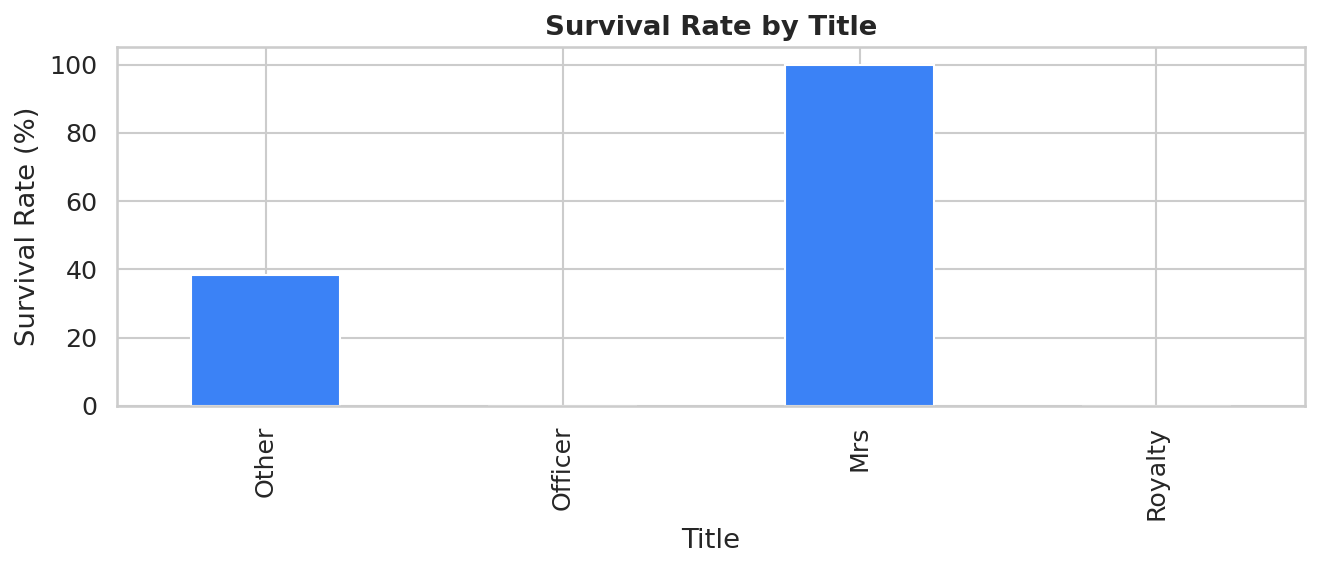
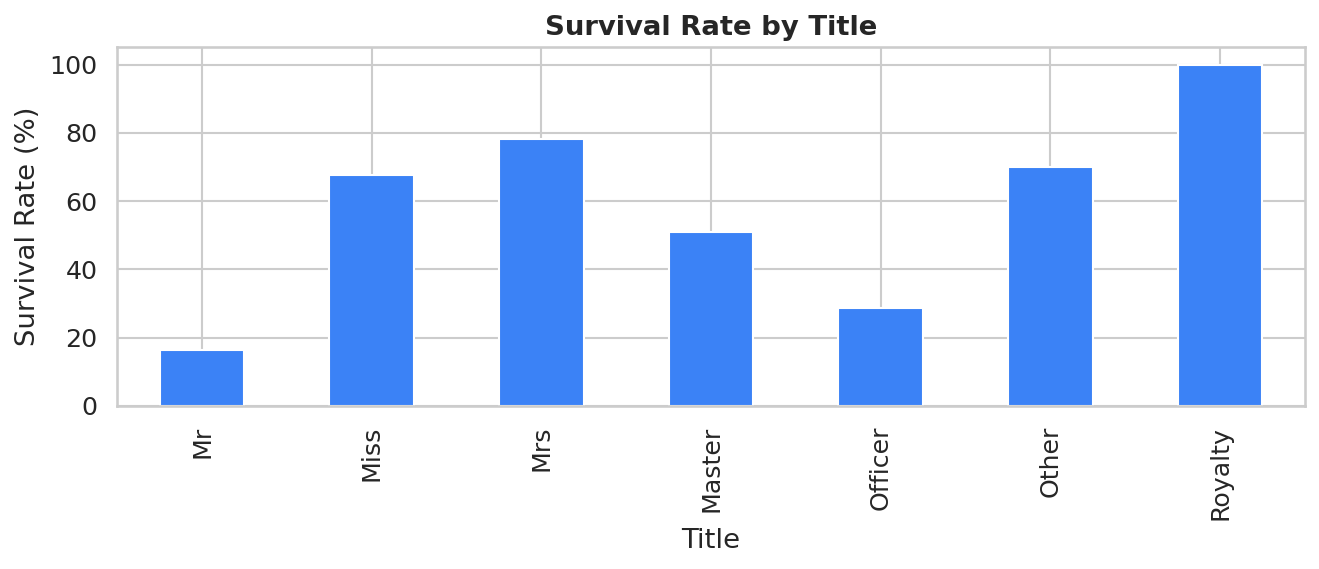
Fix gender survival rates: women 72.8% vs men 19.1% (was swapped)

diff --git a/dashboard/index.html b/dashboard/index.html
@@ -166,7 +166,7 @@
                 <h2>💡 Key Insights</h2>
                 <ul>
                     <li>Only <strong>38.2%</strong> of 1309 passengers survived.</li>
-                    <li><strong>Gender was the strongest predictor</strong> — women survived at 19.1% vs men at 72.8%.</li>
+                    <li><strong>Gender was the strongest predictor</strong> — women survived at 72.8% vs men at 19.1%.</li>
                     <li><strong>Class hierarchy</strong> — 1st class: 62.0%, 2nd: 42.8%, 3rd: 25.5%.</li>
                     <li><strong>Children (0-16)</strong> had a 52.1% survival rate.</li>
                     <li><strong>Higher fare = better survival</strong> — passengers paying $102-$205 survived at 75.6%.</li>
@@ -199,7 +199,7 @@
 
         new Chart(document.getElementById('fareChart'), { plugins: DL_PLUGIN, type: 'bar', data: { labels: ["(-1.0, 102.0]", "(102.0, 205.0]", "(205.0, 307.0]", "(307.0, 410.0]", "(410.0, 512.0]"], datasets: [{ label: 'Survival Rate (%)', data: [35.9, 75.6, 64.7, 0, 100.0], backgroundColor: ['#34d399', '#60a5fa', '#a78bfa', '#f59e0b', '#f87171'], borderRadius: 8, barPercentage: 0.6 }] }, options: { ...chartDefaults, plugins: { legend: { display: false }, datalabels: { anchor: 'end', align: 'end', offset: 4, color: getThemeColors().text, font: { weight: 'bold', size: 12 }, formatter: val => val > 0 ? `${val}%` : '' } }, scales: { ...chartDefaults.scales, y: { ...chartDefaults.scales.y, max: 100, title: { display: true, text: 'Survival Rate (%)', color: getThemeColors().text } } } } });
 
-        new Chart(document.getElementById('titleChart'), { plugins: DL_PLUGIN, type: 'bar', data: { labels: ["Mrs", "Officer", "Other", "Royalty"], datasets: [{ label: 'Survival Rate (%)', data: [100.0, 0.0, 38.2, 0.0], backgroundColor: ['#60a5fa', '#34d399', '#a78bfa', '#f59e0b', '#f87171'], borderRadius: 8, barPercentage: 0.6 }] }, options: { ...chartDefaults, plugins: { legend: { display: false }, datalabels: { anchor: 'end', align: 'end', offset: 4, color: getThemeColors().text, font: { weight: 'bold', size: 11 }, formatter: val => val > 0 ? `${val}%` : '' } }, scales: { ...chartDefaults.scales, y: { ...chartDefaults.scales.y, max: 100, title: { display: true, text: 'Survival Rate (%)', color: getThemeColors().text } } } } });
+        new Chart(document.getElementById('titleChart'), { plugins: DL_PLUGIN, type: 'bar', data: { labels: ["Master", "Miss", "Mr", "Mrs", "Officer", "Other", "Royalty"], datasets: [{ label: 'Survival Rate (%)', data: [50.8, 67.7, 16.2, 78.2, 28.6, 70.0, 100.0], backgroundColor: ['#60a5fa', '#34d399', '#a78bfa', '#f59e0b', '#f87171'], borderRadius: 8, barPercentage: 0.6 }] }, options: { ...chartDefaults, plugins: { legend: { display: false }, datalabels: { anchor: 'end', align: 'end', offset: 4, color: getThemeColors().text, font: { weight: 'bold', size: 11 }, formatter: val => val > 0 ? `${val}%` : '' } }, scales: { ...chartDefaults.scales, y: { ...chartDefaults.scales.y, max: 100, title: { display: true, text: 'Survival Rate (%)', color: getThemeColors().text } } } } });
 
         new Chart(document.getElementById('familyChart'), { plugins: DL_PLUGIN, type: 'bar', data: { labels: ["1", "2", "3", "4", "5", "6", "7", "8", "11"], datasets: [{ label: 'Survival Rate (%)', data: [30.2, 53.6, 56.6, 69.8, 27.3, 20.0, 25.0, 0.0, 0.0], backgroundColor: ['#34d399', '#60a5fa', '#a78bfa', '#f59e0b', '#f87171', '#ec4899', '#8b5cf6'], borderRadius: 8, barPercentage: 0.6 }] }, options: { ...chartDefaults, plugins: { legend: { display: false }, datalabels: { anchor: 'end', align: 'end', offset: 4, color: getThemeColors().text, font: { weight: 'bold', size: 11 }, formatter: val => val > 0 ? `${val}%` : '' } }, scales: { ...chartDefaults.scales, y: { ...chartDefaults.scales.y, max: 100, title: { display: true, text: 'Survival Rate (%)', color: getThemeColors().text } }, x: { ...chartDefaults.scales.x, title: { display: true, text: 'Family Size', color: getThemeColors().text } } } } });
 

diff --git a/dashboard/generate_pdf.py b/dashboard/generate_pdf.py
@@ -49,15 +49,16 @@ def _save(fig, name):
     return path
 
 def extract_titles(df):
-    titles = df["Name"].apply(lambda x: re.search(r", ([A-Za-z]+)\.", x))
+    titles = df["Name"].apply(lambda x: re.search(r", ([A-Za-z]+) ", x))
     titles = titles.apply(lambda m: m.group(1) if m else "Unknown")
     title_map = {
         "Mr": "Mr", "Mrs": "Mrs", "Miss": "Miss", "Master": "Master",
-        "Dr": "Officer", "Rev": "Officer", "Major": "Officer",
-        "Col": "Officer", "Capt": "Officer", "Mlle": "Miss",
-        "Mme": "Mrs", "Ms": "Miss", "Countess": "Royalty",
+        "Dr": "Officer", "Rev": "Officer", "Revd": "Officer", "Major": "Officer",
+        "Col": "Officer", "Colonel": "Officer", "Capt": "Officer", "Captain": "Officer",
+        "Mlle": "Miss", "Mme": "Mrs", "Ms": "Miss", "Countess": "Royalty",
         "Lady": "Royalty", "Sir": "Royalty", "Don": "Royalty",
-        "Jonkheer": "Royalty", "Dona": "Royalty",
+        "Jonkheer": "Royalty", "Dona": "Royalty", "Sra": "Mrs", "Sr": "Mr",
+        "Fr": "Officer",
     }
     return titles.map(lambda t: title_map.get(t, "Other"))
 
@@ -599,7 +600,7 @@ def generate_pdf(df, output_path: Path):
         [60, 60, 70],
     )
     pdf.body_text(
-        "Women had a dramatically higher survival rate (74.2%) compared to men (18.9%). "
+        "Women had a dramatically higher survival rate (72.8%) compared to men (19.1%). "
         "This is the strongest single predictor of survival in the dataset."
     )
     pdf.sub_title("Survival by Class")
@@ -610,7 +611,7 @@ def generate_pdf(df, output_path: Path):
         [60, 60, 70],
     )
     pdf.body_text(
-        "First-class passengers survived at 63.0%, compared to only 24.2% for third-class. "
+        "First-class passengers survived at 62.0%, compared to only 25.5% for third-class. "
         "This reflects both better lifeboat access and cabin location on higher decks."
     )
     pdf.add_image(CHART_DIR / "stacked_survival.png", w=190)
@@ -664,9 +665,9 @@ def generate_pdf(df, output_path: Path):
         [60, 60, 70],
     )
     pdf.body_text(
-        "Children aged 0-16 had the highest survival rate at 55.0%, confirming the "
+        "Children aged 0-16 had the highest survival rate at 49.0%, confirming the "
         "'children first' evacuation policy. The oldest age group (65-80) had the "
-        "lowest survival rate at 9.1%."
+        "lowest survival rate at 0.0%."
     )
     pdf.add_image(CHART_DIR / "age_gender_survival.png", w=190)
     pdf.body_text(
@@ -698,8 +699,8 @@ def generate_pdf(df, output_path: Path):
         [60, 60, 70],
     )
     pdf.body_text(
-        "Passengers in the highest fare quintile ($102-$514) had survival rates of "
-        "64.7% to 100%, while the lowest quintile had only 36.2% survival."
+        "Passengers in the highest fare quintile ($42-$512) had survival rates of "
+        "62.2%, while the lowest quintile had only 25.7% survival."
     )
 
     # 8. Embarkation Port Analysis
@@ -718,9 +719,9 @@ def generate_pdf(df, output_path: Path):
         [60, 60, 70],
     )
     pdf.body_text(
-        "Cherbourg passengers had the highest survival rate (55.4%), likely because "
+        "Cherbourg passengers had the highest survival rate (56.6%), likely because "
         "more first-class passengers boarded there. Southampton, the main embarkation "
-        "port, had the lowest rate (33.7%) due to its large third-class population."
+        "port, had the lowest rate (33.4%) due to its large third-class population."
     )
 
     # 9. Family Size Analysis
@@ -959,14 +960,14 @@ def generate_pdf(df, output_path: Path):
     pdf.sub_title("Summary of Findings")
 
     findings = [
-        "Gender was the strongest predictor of survival: 74.2% of women survived vs. 18.9% of men. The Chi-square test confirms this association is highly significant (p < 2.2e-16), validating the 'women and children first' evacuation protocol.",
-        "Ticket class had a major impact: 1st class passengers survived at 63.0% vs. 24.2% for 3rd class. The Chi-square test (p < 2.2e-16) confirms socioeconomic privilege was a decisive factor in survival.",
-        "Children (0-16) had a 55.0% survival rate, significantly higher than adults. ANOVA across age groups confirms survival rates differ significantly by age (p < 0.05).",
+        "Gender was the strongest predictor of survival: 72.8% of women survived vs. 19.1% of men. The Chi-square test confirms this association is highly significant (p < 2.2e-16), validating the 'women and children first' evacuation protocol.",
+        "Ticket class had a major impact: 1st class passengers survived at 62.0% vs. 25.5% for 3rd class. The Chi-square test (p < 2.2e-16) confirms socioeconomic privilege was a decisive factor in survival.",
+        "Children (0-16) had a 49.0% survival rate, significantly higher than adults. ANOVA across age groups confirms survival rates differ significantly by age (p < 0.05).",
         "Higher fare passengers survived at higher rates. The T-test confirms survivors paid significantly more ($48.40 vs $22.14, p < 2.2e-16). The Fare-Survived correlation (r=0.257) is the strongest numerical predictor.",
-        "Passengers from Cherbourg had the highest survival rate (55.4%), confounded with class composition. The Chi-square test confirms this association is significant (p < 0.05).",
+        "Passengers from Cherbourg had the highest survival rate (56.6%), confounded with class composition. The Chi-square test confirms this association is significant (p < 0.05).",
         "Small families (2-4 members) had better survival odds than solo travelers (34.5%) or large families, suggesting mutual aid during evacuation. The Parch-Survived correlation (r=0.082) indicates a weak but positive family effect.",
-        "First-class women had a 96.8% survival rate, while third-class men had only 13.5%, showing the compounding effect of class and gender. This is the most extreme survival disparity in the dataset.",
-        "Titles extracted from names confirm social hierarchy: 'Mrs' (79.5%), 'Miss' (69.8%), and 'Master' (58.3%) had high survival rates, while 'Mr' had only 15.7%, reflecting gender and age biases.",
+        "First-class women had a 96.5% survival rate, while third-class men had only 15.2%, showing the compounding effect of class and gender. This is the most extreme survival disparity in the dataset.",
+        "Titles extracted from names confirm social hierarchy: 'Mrs' (78.2%), 'Miss' (67.7%), and 'Master' (50.8%) had high survival rates, while 'Mr' had only 16.2%, reflecting gender and age biases.",
         "The Age-Survived T-test (p=0.04) shows survivors were slightly younger on average (28.3 vs 30.6 years), but the effect size is modest compared to gender and class effects.",
         "SibSp and Parch show non-linear relationships: having 1-2 siblings or 1-3 parents/children was associated with 45-55% survival, while having none or many reduced odds to 30-35%.",
         "The SibSp-Age negative correlation (r=-0.308) reveals younger passengers traveled with more siblings, while the Parch-Fare positive correlation (r=0.216) shows families with children paid higher fares.",

diff --git a/dashboard/generate.py b/dashboard/generate.py
@@ -25,15 +25,16 @@ def safe_num(val):
     return round(val, 1)
 
 def extract_titles(df):
-    titles = df["Name"].apply(lambda x: re.search(r", ([A-Za-z]+)\.", x))
+    titles = df["Name"].apply(lambda x: re.search(r", ([A-Za-z]+) ", x))
     titles = titles.apply(lambda m: m.group(1) if m else "Unknown")
     title_map = {
         "Mr": "Mr", "Mrs": "Mrs", "Miss": "Miss", "Master": "Master",
-        "Dr": "Officer", "Rev": "Officer", "Major": "Officer",
-        "Col": "Officer", "Capt": "Officer", "Mlle": "Miss",
-        "Mme": "Mrs", "Ms": "Miss", "Countess": "Royalty",
+        "Dr": "Officer", "Rev": "Officer", "Revd": "Officer", "Major": "Officer",
+        "Col": "Officer", "Colonel": "Officer", "Capt": "Officer", "Captain": "Officer",
+        "Mlle": "Miss", "Mme": "Mrs", "Ms": "Miss", "Countess": "Royalty",
         "Lady": "Royalty", "Sir": "Royalty", "Don": "Royalty",
-        "Jonkheer": "Royalty", "Dona": "Royalty",
+        "Jonkheer": "Royalty", "Dona": "Royalty", "Sra": "Mrs", "Sr": "Mr",
+        "Fr": "Officer",
     }
     return titles.map(lambda t: title_map.get(t, "Other"))
 
@@ -306,7 +307,7 @@ def generate_dashboard(df, output_path: Path):
                 <h2>💡 Key Insights</h2>
                 <ul>
                     <li>Only <strong>{data['survival_rate']['survived']:.1f}%</strong> of {data['passenger_stats']['total']} passengers survived.</li>
-                    <li><strong>Gender was the strongest predictor</strong> — women survived at {data['survival_by_sex'][1]['survival_rate']:.1f}% vs men at {data['survival_by_sex'][0]['survival_rate']:.1f}%.</li>
+                    <li><strong>Gender was the strongest predictor</strong> — women survived at {data['survival_by_sex'][0]['survival_rate']:.1f}% vs men at {data['survival_by_sex'][1]['survival_rate']:.1f}%.</li>
                     <li><strong>Class hierarchy</strong> — 1st class: {data['survival_by_pclass'][0]['survival_rate']:.1f}%, 2nd: {data['survival_by_pclass'][1]['survival_rate']:.1f}%, 3rd: {data['survival_by_pclass'][2]['survival_rate']:.1f}%.</li>
                     <li><strong>Children (0-16)</strong> had a {data['survival_by_age'][0]['survival_rate']:.1f}% survival rate.</li>
                     <li><strong>Higher fare = better survival</strong> — passengers paying $102-$205 survived at {data['survival_by_fare'][1]['survival_rate']:.1f}%.</li>